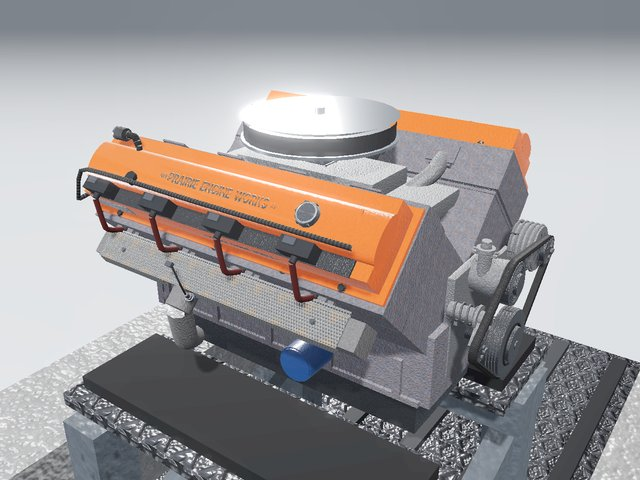
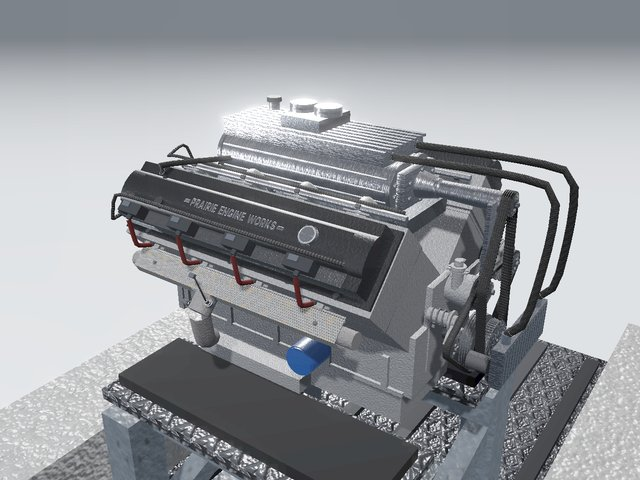
Use the LT4 for the Prairie Engine Works cover (#76)
Swaps the Chevrolet 350 for the supercharged GM LT4 6.2, from the same
studio render. The link preview is regenerated and bumped to ?v=4.

Claude-Session: https://claude.ai/code/session_016QaTkMKy8nw5ihBrZfYzcJ

diff --git a/tools/prediction-tracker/index.html b/tools/prediction-tracker/index.html
@@ -14,7 +14,7 @@
   <meta property="og:title" content="Prediction Tracker · Longlight Interactive">
   <meta property="og:description" content="Log predictions with how sure you are, grade them later, and see how well-calibrated your calls really are. Everything stays on your own device.">
   <meta property="og:url" content="https://jxstrr0.github.io/Kelbo.Website/tools/prediction-tracker/">
-  <meta property="og:image" content="https://jxstrr0.github.io/Kelbo.Website/assets/social-preview.jpg?v=3">
+  <meta property="og:image" content="https://jxstrr0.github.io/Kelbo.Website/assets/social-preview.jpg?v=4">
   <meta property="og:image:width" content="1200">
   <meta property="og:image:height" content="630">
   <meta property="og:image:alt" content="The Longlight Interactive sun over a purple horizon, beside screenshots of four of its games.">

diff --git a/agent-fleet.html b/agent-fleet.html
@@ -14,7 +14,7 @@
   <meta property="og:title" content="Agent Fleet · Longlight Interactive">
   <meta property="og:description" content="A growing set of small, single-purpose bots I can run from my phone, like news digests, trackers, and weekly scans.">
   <meta property="og:url" content="https://jxstrr0.github.io/Kelbo.Website/agent-fleet.html">
-  <meta property="og:image" content="https://jxstrr0.github.io/Kelbo.Website/assets/social-preview.jpg?v=3">
+  <meta property="og:image" content="https://jxstrr0.github.io/Kelbo.Website/assets/social-preview.jpg?v=4">
   <meta property="og:image:width" content="1200">
   <meta property="og:image:height" content="630">
   <meta property="og:image:alt" content="The Longlight Interactive sun over a purple horizon, beside screenshots of four of its games.">

diff --git a/journal.html b/journal.html
@@ -14,7 +14,7 @@
   <meta property="og:title" content="AI Trading Journal · Longlight Interactive">
   <meta property="og:description" content="Kelbo's trading journal: his market views, his trades, and his running record, with notes from an AI coach.">
   <meta property="og:url" content="https://jxstrr0.github.io/Kelbo.Website/journal.html">
-  <meta property="og:image" content="https://jxstrr0.github.io/Kelbo.Website/assets/social-preview.jpg?v=3">
+  <meta property="og:image" content="https://jxstrr0.github.io/Kelbo.Website/assets/social-preview.jpg?v=4">
   <meta property="og:image:width" content="1200">
   <meta property="og:image:height" content="630">
   <meta property="og:image:alt" content="The Longlight Interactive sun over a purple horizon, beside screenshots of four of its games.">

diff --git a/games.html b/games.html
@@ -14,7 +14,7 @@
   <meta property="og:title" content="Games · Longlight Interactive">
   <meta property="og:description" content="Browser games from Longlight Interactive. Play them on your phone or computer, or look at the code.">
   <meta property="og:url" content="https://jxstrr0.github.io/Kelbo.Website/games.html">
-  <meta property="og:image" content="https://jxstrr0.github.io/Kelbo.Website/assets/social-preview.jpg?v=3">
+  <meta property="og:image" content="https://jxstrr0.github.io/Kelbo.Website/assets/social-preview.jpg?v=4">
   <meta property="og:image:width" content="1200">
   <meta property="og:image:height" content="630">
   <meta property="og:image:alt" content="The Longlight Interactive sun over a purple horizon, beside screenshots of four of its games.">

diff --git a/projects.html b/projects.html
@@ -14,7 +14,7 @@
   <meta property="og:title" content="Projects · Longlight Interactive">
   <meta property="og:description" content="Games, tools, and AI projects from Longlight Interactive, from planned to shipped.">
   <meta property="og:url" content="https://jxstrr0.github.io/Kelbo.Website/projects.html">
-  <meta property="og:image" content="https://jxstrr0.github.io/Kelbo.Website/assets/social-preview.jpg?v=3">
+  <meta property="og:image" content="https://jxstrr0.github.io/Kelbo.Website/assets/social-preview.jpg?v=4">
   <meta property="og:image:width" content="1200">
   <meta property="og:image:height" content="630">
   <meta property="og:image:alt" content="The Longlight Interactive sun over a purple horizon, beside screenshots of four of its games.">

diff --git a/about.html b/about.html
@@ -14,7 +14,7 @@
   <meta property="og:title" content="About · Longlight Interactive">
   <meta property="og:description" content="About Kelbo, the person behind Longlight Interactive, based in Saskatoon, Saskatchewan.">
   <meta property="og:url" content="https://jxstrr0.github.io/Kelbo.Website/about.html">
-  <meta property="og:image" content="https://jxstrr0.github.io/Kelbo.Website/assets/social-preview.jpg?v=3">
+  <meta property="og:image" content="https://jxstrr0.github.io/Kelbo.Website/assets/social-preview.jpg?v=4">
   <meta property="og:image:width" content="1200">
   <meta property="og:image:height" content="630">
   <meta property="og:image:alt" content="The Longlight Interactive sun over a purple horizon, beside screenshots of four of its games.">

diff --git a/trading.html b/trading.html
@@ -14,7 +14,7 @@
   <meta property="og:title" content="Trading · Longlight Interactive">
   <meta property="og:description" content="Kelbo's trading journal and the tools he builds for his own trading day.">
   <meta property="og:url" content="https://jxstrr0.github.io/Kelbo.Website/trading.html">
-  <meta property="og:image" content="https://jxstrr0.github.io/Kelbo.Website/assets/social-preview.jpg?v=3">
+  <meta property="og:image" content="https://jxstrr0.github.io/Kelbo.Website/assets/social-preview.jpg?v=4">
   <meta property="og:image:width" content="1200">
   <meta property="og:image:height" content="630">
   <meta property="og:image:alt" content="The Longlight Interactive sun over a purple horizon, beside screenshots of four of its games.">

diff --git a/index.html b/index.html
@@ -14,7 +14,7 @@
   <meta property="og:title" content="Longlight Interactive">
   <meta property="og:description" content="Longlight Interactive makes browser games, tools, and AI projects in Saskatoon, Saskatchewan.">
   <meta property="og:url" content="https://jxstrr0.github.io/Kelbo.Website/">
-  <meta property="og:image" content="https://jxstrr0.github.io/Kelbo.Website/assets/social-preview.jpg?v=3">
+  <meta property="og:image" content="https://jxstrr0.github.io/Kelbo.Website/assets/social-preview.jpg?v=4">
   <meta property="og:image:width" content="1200">
   <meta property="og:image:height" content="630">
   <meta property="og:image:alt" content="The Longlight Interactive sun over a purple horizon, beside screenshots of four of its games.">

diff --git a/ai.html b/ai.html
@@ -14,7 +14,7 @@
   <meta property="og:title" content="AI · Longlight Interactive">
   <meta property="og:description" content="AI projects and small bots from Longlight Interactive.">
   <meta property="og:url" content="https://jxstrr0.github.io/Kelbo.Website/ai.html">
-  <meta property="og:image" content="https://jxstrr0.github.io/Kelbo.Website/assets/social-preview.jpg?v=3">
+  <meta property="og:image" content="https://jxstrr0.github.io/Kelbo.Website/assets/social-preview.jpg?v=4">
   <meta property="og:image:width" content="1200">
   <meta property="og:image:height" content="630">
   <meta property="og:image:alt" content="The Longlight Interactive sun over a purple horizon, beside screenshots of four of its games.">

diff --git a/CLAUDE.md b/CLAUDE.md
@@ -49,7 +49,7 @@ Live at https://jxstrr0.github.io/Kelbo.Website/
 - The link preview image is `assets/social-preview.jpg` (1200×630, the
   Longlight sky, the sun with its glow and halo on the horizon line,
   "Longlight Interactive", plus the four game covers). Every `og:image`
-  ends `?v=3` so apps refetch it; bump it on every page when the picture
+  ends `?v=4` so apps refetch it; bump it on every page when the picture
   changes. Regenerate it if the covers change a lot. The favicon and
   home-screen icons are the logo's sun (glow, halo, sun) on an ivory line
   on a purple tile (the favicon turns slate in dark mode):
@@ -81,7 +81,7 @@ Live at https://jxstrr0.github.io/Kelbo.Website/
   sun, buttons and underlines there. Game covers live in `assets/covers/`
   (640×480 JPG, captured from each live game; Red Skies is portrait-only, so
   it's shot at 600px wide mid-shift with a jet on the TV camera, cropped 4:3;
-  Prairie Engine Works is the Chevrolet 350 from the game's own studio render,
+  Prairie Engine Works is the GM LT4 6.2 from the game's own studio render,
   `ENGINE_VIS.photoShot(1280, 960)`, so no stray parts show; Season Ticket is
   the 3D Office at a wide view, cropped 4:3 from the left to keep the sunset
   window).

diff --git a/README.md b/README.md
@@ -187,8 +187,8 @@ borrows it, so leave that `<defs>` block in the footer.
 When someone shares a link to the site in a text, Discord, or X, the app
 shows a preview card. That card is `assets/social-preview.jpg` (1200×630).
 It shows the sun with the same glow and halo as the logo. To change it,
-upload a new picture with the same name and size, then bump the `?v=3` on
-the end of every page's `og:image` line (to `?v=4`) so apps fetch the new
+upload a new picture with the same name and size, then bump the `?v=4` on
+the end of every page's `og:image` line (to `?v=5`) so apps fetch the new
 one. Apps remember old previews for a while, so a change can still take a
 day or so to show up when you share the link.
 
